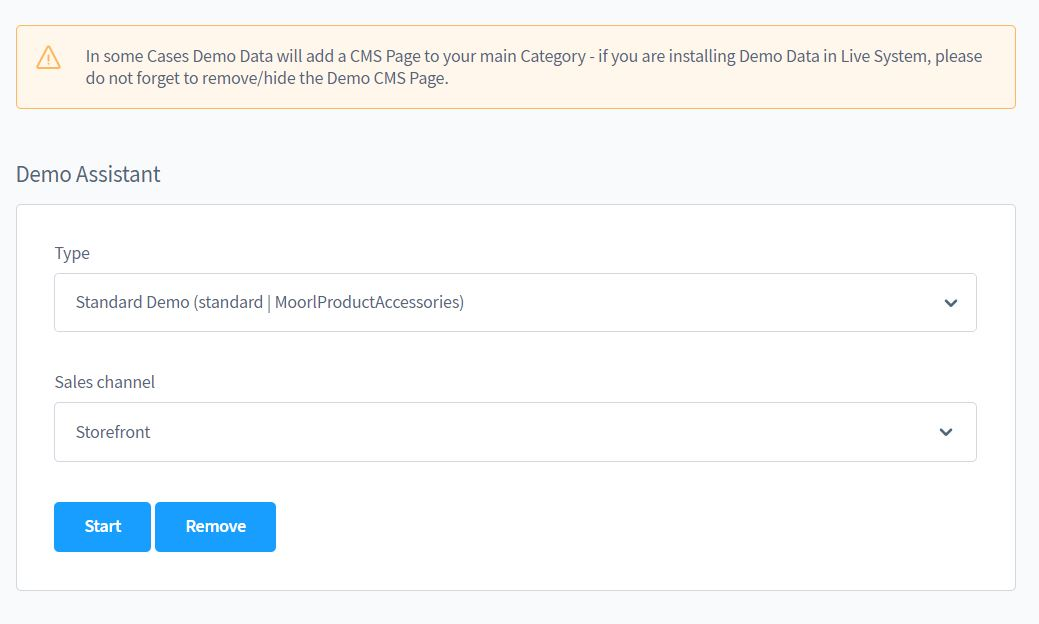
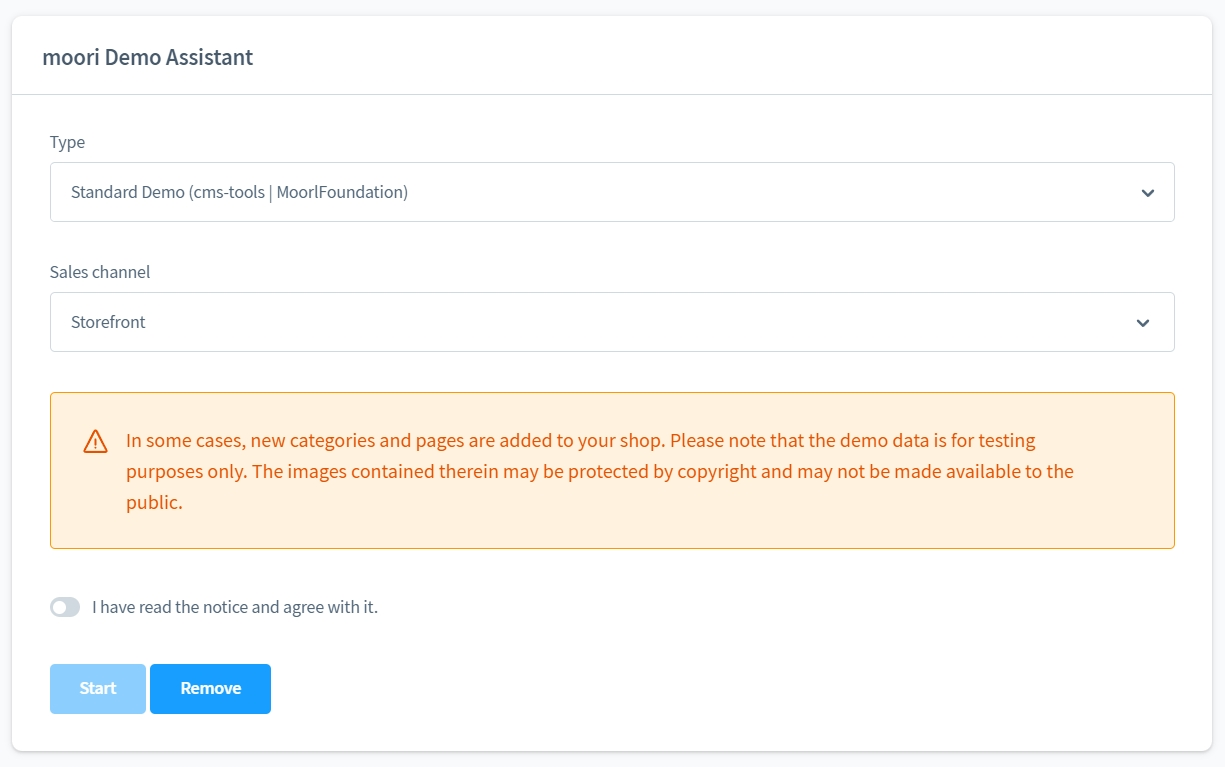
initial

diff --git a/docs-source/MoorlFoundation/demo-assistant.md b/docs-source/MoorlFoundation/demo-assistant.md
@@ -1,21 +1,19 @@
-# Foundation Demo Assistant
+# Foundation | Demo Assistant
+
 verfügbar ab Shopware 6.4
 
 ### Demo Daten einfach installieren
 
-Die zukünftigen moori Apps enthalten ab sofort Demo Pakete die Du einfach 
-per Klick installieren kannst!
+Viele Plugins haben vorgefertigte Demopakete und erleichtern dir somit Inhalte zu befüllen.
 
 ### Wie geht das?
 
-Nachdem Du die moori Foundation App und die moori App Deiner Wahl installiert hast,
-gehe in die Einstellungen auf den Reiter moori Tools und klicke anschließend auf dem Demo Assistant.
+Nachdem du Foundation installiert hast, gehe in die "Einstellungen" auf den Reiter "Erweiterungen" und klicke anschließend auf dem "Demo Assistant".
 
 ![](images/demo-assistant-01.jpg)
 
-Danach wählst Du einfach die gewünschte App und den richtigen Verkaufskanal aus. 
-
-Klicke auf Start...
-Nach einer kurzen Weile hast sind die Demo Daten bereit zum Einsatz!
+Danach wählst du einfach das gewünschte Plugin und den richtigen Verkaufskanal aus. 
 
 ![](images/demo-assistant-02.jpg)
+
+Bitte beachte, dass die Bildmaterialien durch ein Copyright geschützt sind. Die Inhalte aus den Demopaketen dürfen nicht frei zugänglich sein.

diff --git a/docs-source/MoorlFoundation/demo-assistant.en.md b/docs-source/MoorlFoundation/demo-assistant.en.md
@@ -1,21 +1,19 @@
-# Foundation Demo Assistant
+# Foundation | Demo Assistant
+
 available from Shopware 6.4
 
-### Install demo data easily
+### Simply install demo data
 
-The future moori apps now contain demo packages that you can install simply
-install them with just one click!
+Many plugins have ready-made demo packages and thus make it easier for you to fill content.
 
 ### How does it work?
 
-After you have installed the moori Foundation App and the moori App of your choice,
-go to the moori Tools tab in the settings and click on the Demo Assistant.
+After you have installed Foundation, go to the "Settings" on the "Extensions" tab and then click on the "Demo Assistant".
 
 ![](images/demo-assistant-01.jpg)
 
-After that, just select the app you want and the right sales channel.
-
-Click on Start...
-After a short while the demo data is ready to use!
+Then simply select the desired plug-in and the correct sales channel.
 
 ![](images/demo-assistant-02.jpg)
+
+Please note that the images are protected by copyright. The contents of the demo packages may not be freely accessible.

diff --git a/docs-source/MoorlFormsCustomProducts/index.md b/docs-source/MoorlFormsCustomProducts/index.md
@@ -1,4 +1,4 @@
-# Produkt-Konfigurator Add-On | Formular Baukasten 2
+# Formular Baukasten 2 | Produkt-Konfigurator Add-On
 
 Mit diesem Add-On für [Formular Baukasten 2](../MoorlForms/index.md) kannst du Produkte 
 individuell konfigurierbar machen und den Preis beeinflussen! Eingabefelder lassen sich

diff --git a/docs-source/MoorlFormsCustomer/index.md b/docs-source/MoorlFormsCustomer/index.md
@@ -1,4 +1,4 @@
-# Kunden-Formulare Add-On | Formular Baukasten 2
+# Formular Baukasten 2 | Kunden-Formulare Add-On
 
 Mit diesem Add-On für [Formular Baukasten 2](../MoorlForms/index.md) kannst du
 Kundenspezifische Formulare für die Registrierung oder dem Account-Bereich nutzen!

diff --git a/docs-source/MoorlFormsProduct/index.md b/docs-source/MoorlFormsProduct/index.md
@@ -1,4 +1,4 @@
-# Produkt-Anfrage Add-On | Formular Baukasten 2
+# Formular Baukasten 2 | Produkt-Anfrage Add-On
 
 Mit diesem Add-On für [Formular Baukasten 2](../MoorlForms/index.md) kannst du
 zusätzliche Formulare für deine Produkte bereitstellen. Produkte mit Formularen

diff --git a/docs-source/MoorlFormsCustomProducts/index.en.md b/docs-source/MoorlFormsCustomProducts/index.en.md
@@ -1,4 +1,4 @@
-# Product-Configurator Add-On | Form Builder 2
+# Form Builder 2 | Product-Configurator Add-On
 
 With this add-on for [Form Builder 2](../MoorlForms/index.md) you can make products
 individually configurable and influence the price! Input fields can be

diff --git a/docs-source/MoorlFormsCustomer/index.en.md b/docs-source/MoorlFormsCustomer/index.en.md
@@ -1,4 +1,4 @@
-# Customer Forms Add-On | Form Builder 2
+# Form Builder 2 | Customer Forms Add-On
 
 With this add-on for [Form Builder 2](../MoorlForms/index.md)
 you can use customised forms for registration or the account area!

diff --git a/docs-source/MoorlFormsProduct/index.en.md b/docs-source/MoorlFormsProduct/index.en.md
@@ -1,4 +1,4 @@
-# Product-Request Add-On | Form Builder 2
+# Form Builder 2 | Product-Request Add-On
 
 With this add-on for [Form Builder 2](../MoorlForms/index.md) you can
 additional forms for your products. Products with forms

diff --git a/docs-source/MoorlFormsClassic/index.md b/docs-source/MoorlFormsClassic/index.md
@@ -1,4 +1,4 @@
-# Classic Add-On | Formular Baukasten 2
+# Formular Baukasten 2 | Classic Add-On
 
 Mit diesem Add-On für [Formular Baukasten 2](../MoorlForms/index.md) stehen
 dir neue Möglichkeiten zur Verfügung.

diff --git a/docs-source/MoorlMagazine/index.md b/docs-source/MoorlMagazine/index.md
@@ -1,4 +1,4 @@
-# Magazine - Ein Shopware 6 Blog
+# Öffentliche Profile | Magazine Add-On
 
 _Hinweis: Dieses Plugin benötigt die aktuelle Version des [Foundation / Basis Plugin](../MoorlFoundation/index.md)._
 

diff --git a/docs-source/MoorlFormsClassic/index.en.md b/docs-source/MoorlFormsClassic/index.en.md
@@ -1,4 +1,4 @@
-# Classic Add-On | Form Builder 2
+# Form Builder 2 | Classic Add-On
 
 With this add-on for [Form Builder 2](../MoorlForms/index.md), you have new
 new possibilities at your disposal.

diff --git a/docs-source/MoorlGetTheLook/index.md b/docs-source/MoorlGetTheLook/index.md
@@ -1,4 +1,4 @@
-# Get-The-Look! - Add-On für "Öffentliche Profile"
+# Öffentliche Profile | Get-The-Look Add-On
 
 [Hier geht's zur Demo](https://https://demo.moori.net/Looks/)
 
